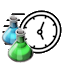
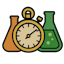
Added README.md and new graphics

diff --git a/README.md b/README.md
@@ -1,0 +1,19 @@
+# SPM Checker
+
+Do you find technology multiplier setting boring? Are you infuriated that it doesn't make the game more difficult, just makes you wait more? This is the mod for you!
+
+## What does it do?
+
+By default settings (changeable in mod settings), all science spoils in 5 minutes. Produced SPM is measured every 0.5 seconds, you can see it in the SPM Checker window.
+When you start a research, you will see the required SPM for each science type and a graphic representation of how much you are fullfiling it.
+
+If you are not meeting the requirements, there is a grace period of 10 seconds (changable in settings) where you can get the SPM back up.
+If it doesn't go back to meeting requirements, research is canceled.
+
+## Multiplayer
+
+Should work fine but not tested.
+
+## Compatibility with other mods
+
+Should work with all mods.
